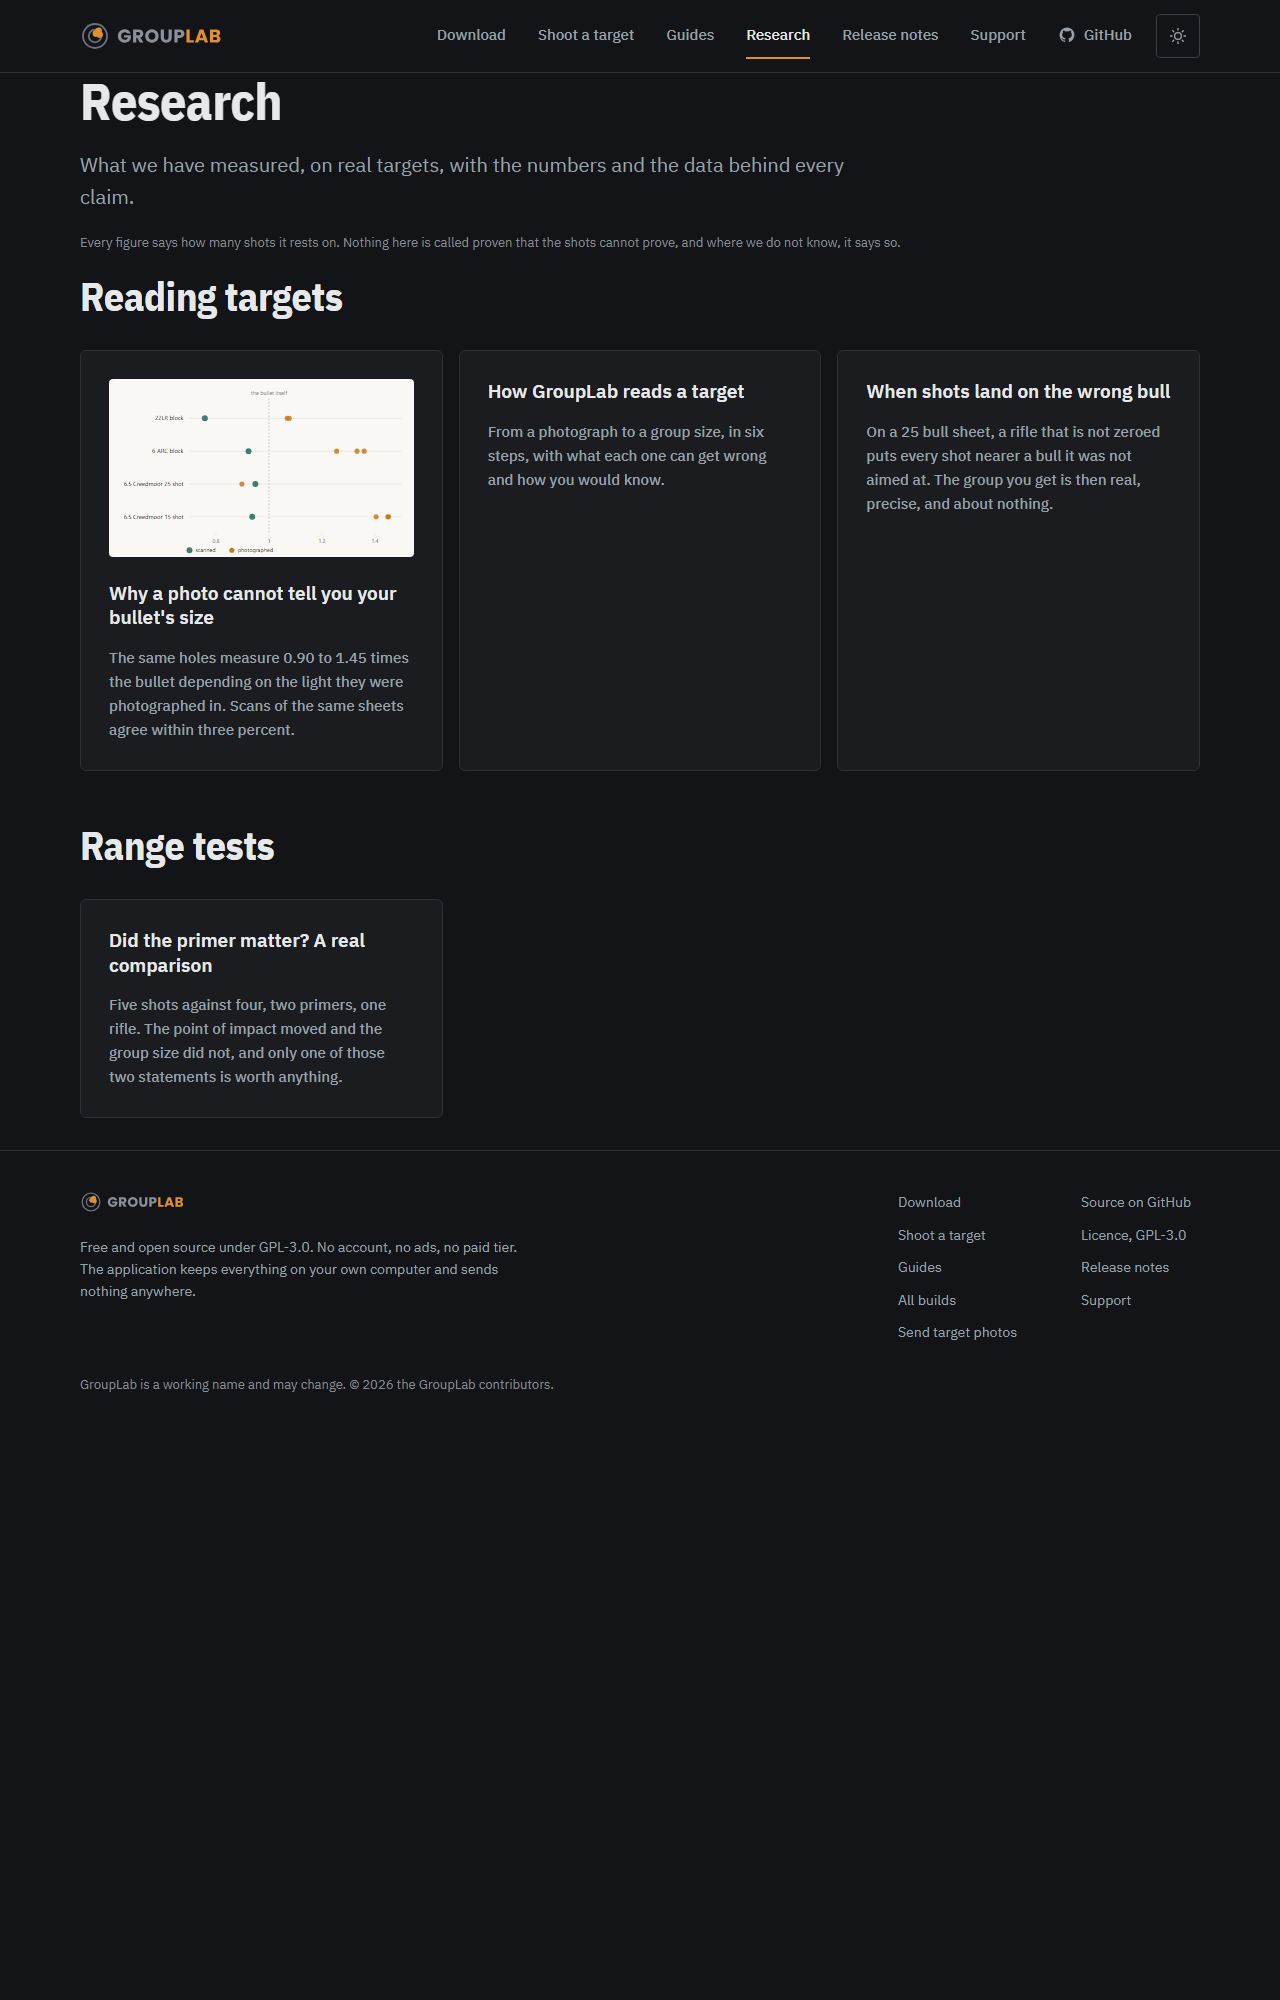
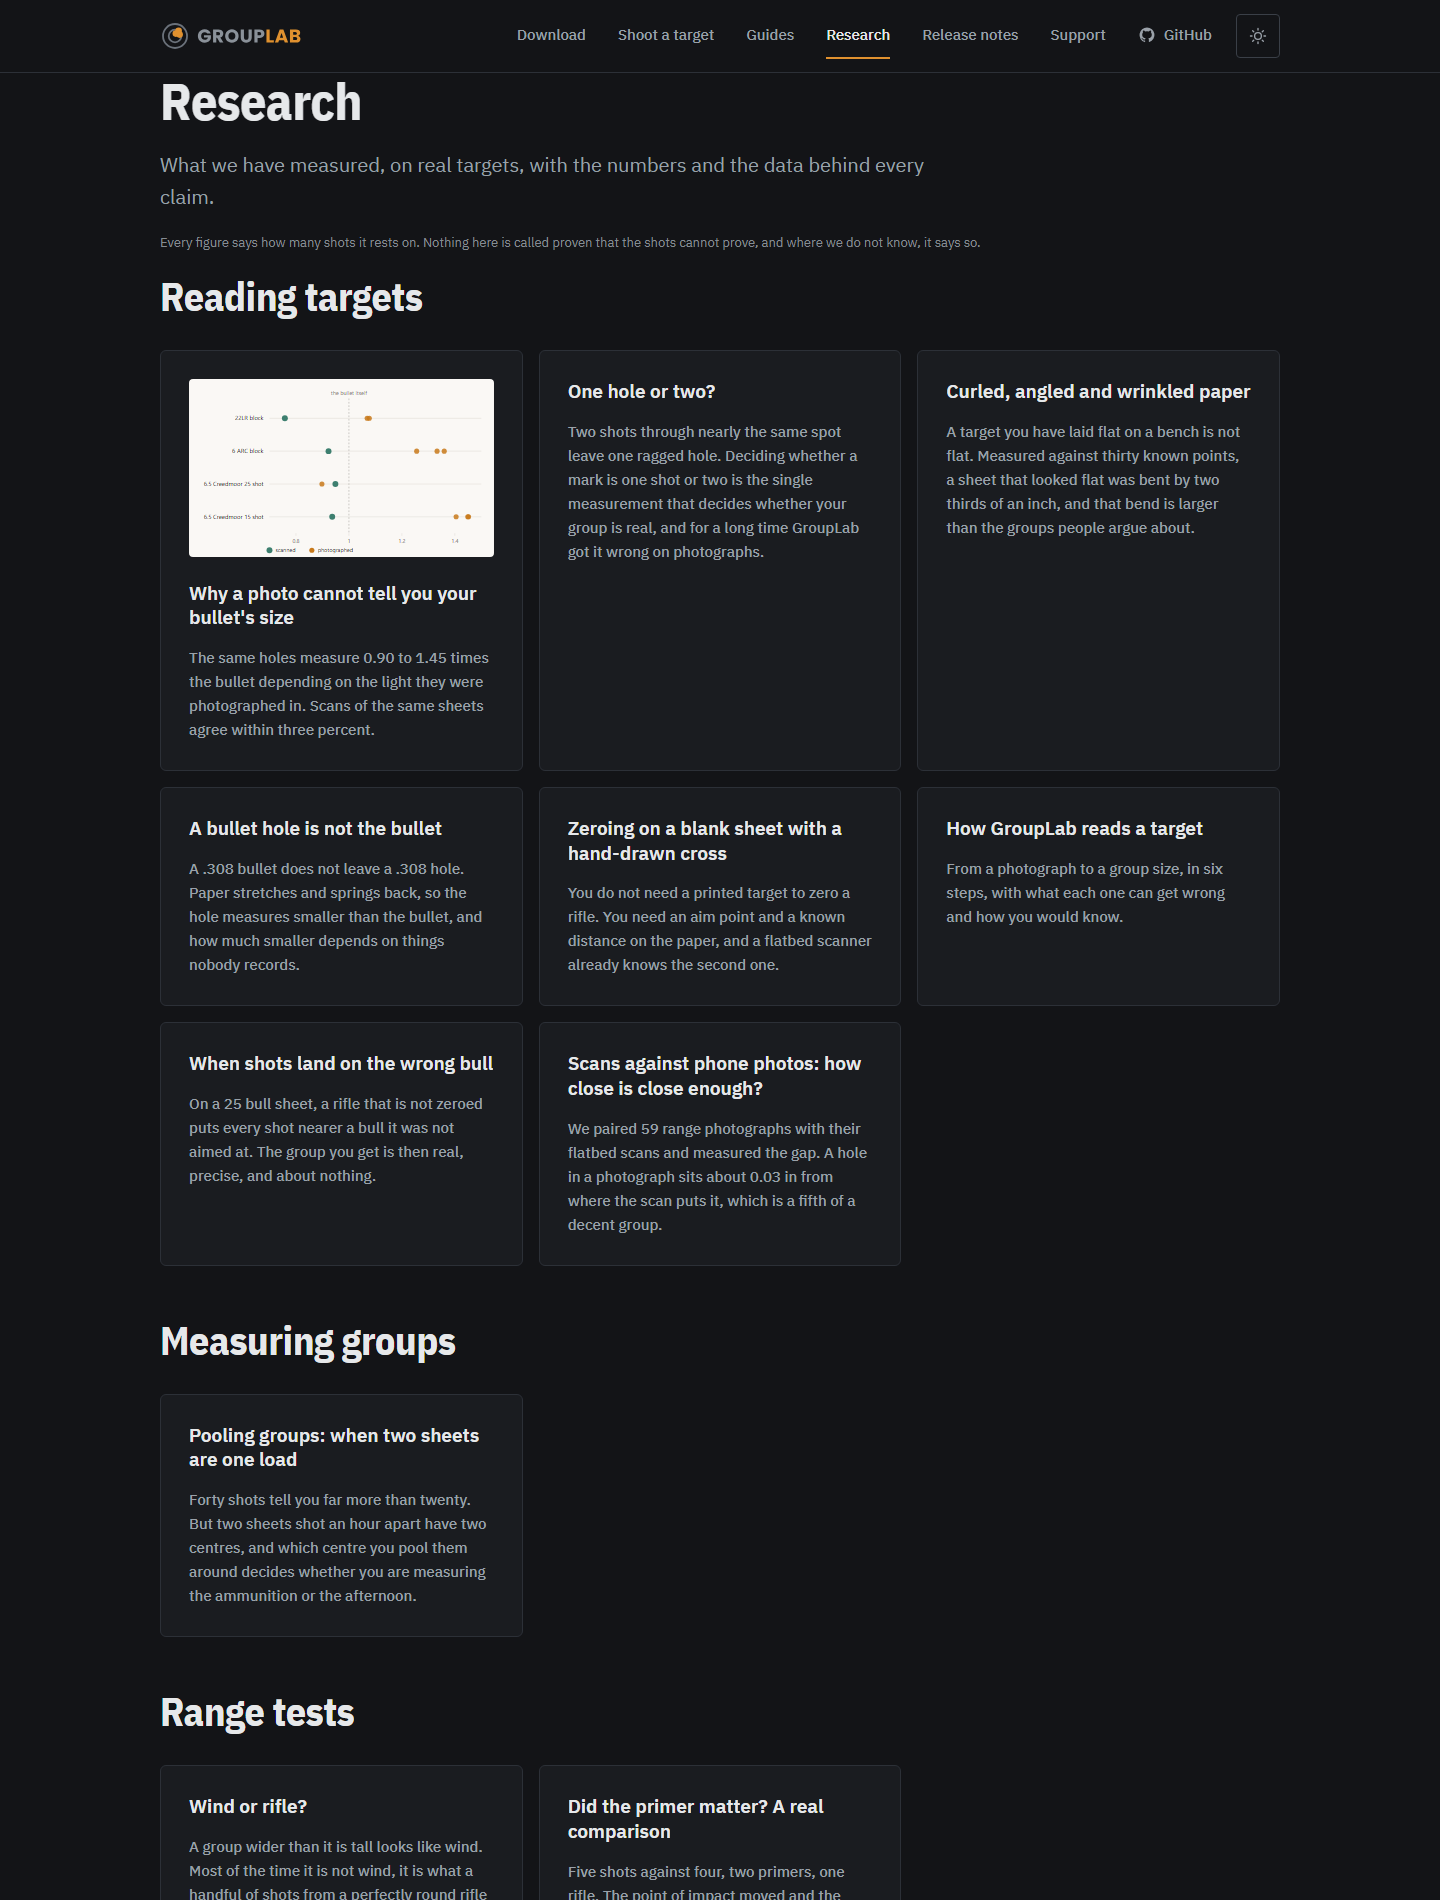
The research section goes live, and the notes carry nightlies 77 and 78
Alan sent "publish research batch 1" and, asked whether that meant batch 1's
four articles or all eighteen now written, answered all eighteen. So every
article marked published is on the research index: batches 1, 2 and 3. The
twelve planning drafts stay drafts, rendered but unlinked and carrying their
draft notice, which is what the section was built to do with them.

RELEASE-NOTES.md is brought to nightly 78 first, per CLAUDE.md's publish
step 0, so the releases page does not go up already behind. Both carry
nothing a person would notice and say so.

diff --git a/docs/notes/inbox/entry-143.md b/docs/notes/inbox/entry-143.md
@@ -1,0 +1,67 @@
+# Entry 143: answers to questions 41 to 46, and the review of research batch 1
+
+Written by the planning session at 04:30 Mountain on 2026-09-23. The review in section 1 is the planning session's, sent to Alan at the same time as this entry; the answers in section 2 are decisions.
+
+## 1. Research batch 1: approved to publish, with four things to fix
+
+Alan has the same review and will send "publish research batch 1" himself. The writing is good and the honesty is right: the primer article in particular says what nine shots can and cannot support, which is the whole point of the section. Fix these, and take them as the standard for later batches.
+
+1. **Every card on the index needs a lead image, or none of them do.** Today one card in four has a thumbnail and the rest are empty, so the row is as tall as the tallest card with three large blanks in it. Give every article a lead figure, and where an article has no natural chart, a plain titled panel in the site's own style is better than a gap.
+2. **The charts are light panels on a dark page.** Every figure is drawn on a near-white surface, which glares against the dark theme and looks pasted on. Have each figure script write both a light and a dark version from the same data, and let the page choose by the reader's theme. This applies to the planning drafts as well: `_style.py` should grow a dark palette and the scripts should call it, rather than each script deciding for itself. If that is more work than it is worth this week, the fallback is a consistent light card behind every figure, so at least they all look deliberate.
+3. **Front matter says `status: published` on articles that are not published.** Two different meanings of the word are in play. Use `state: draft | ready | published`, where `published` is set only when a batch actually goes live, and make the build refuse a page whose state says published when it is not in a published batch.
+4. **The narrow renders are not phone renders**, as `docs/RESEARCH.md` says plainly, and that is an honest note rather than a fault. Leave it. Alan will look at the real pages on his phone after the first publish and report anything that breaks.
+
+Nothing else blocks publication. Publish batch 1 when Alan's message arrives, then offer batches 2 and 3 for review the same way rather than publishing them with it.
+
+## 2. Questions 41 to 46
+
+### Question 41: dragging a shot onto a bull means two different things
+
+**Dragging always moves the shot, and never changes which bull it belongs to.** A mark's position is a measurement and a drag is how it is corrected; nothing else may ride on that gesture. Entry 141 section 5.3 item 3 is amended: assignment happens through the bull picker in the shots list, through the keyboard (select, type the bull number), and through the multiple-selection assignment you have built. Drag onto a bull is removed from the specification. If you later want a pointer gesture for assignment, it must be a distinct one, such as a drag with a modifier key held, and it must leave the hole where it is and say in the toast which bull it moved the shot to.
+
+### Question 42: a corrected shot does not survive a second detection
+
+**Build the matching you propose**, and do not lose a person's correction silently.
+
+- Match each kept corrected shot to the nearest freshly detected shot within **one hole's width**, using the sheet's own size reference from entry 141 section 4 where it exists and the stated calibre where it does not. Where a match exists, the person's position and chosen bull win over the detector's. Where none exists, keep the corrected shot as it is.
+- Never produce two marks for one hole; that remains the rule your current code protects.
+- Also make the button honest: detecting again says, in one line, how many hand corrections it will carry over.
+- Test on scan 5 and scan 6, and with a generated sheet where a correction is moved beyond one hole's width and must therefore survive on its own.
+
+### Question 43: entry 137 names an image safety the desktop does not have
+
+**Both, as their own item, after the current queue.** Not urgent.
+
+1. A cap at **400 megapixels**, phrased as a limit against a hostile or broken file rather than a judgement about scanning, with the number and the measured size in the message. Alan's 600 dpi letter scans are about 32 megapixels, so the cap is twelve times his largest real file.
+2. Move the decode to a background thread with a timeout, because the window freezing on a large scan is a real complaint waiting to happen. Show progress while it runs.
+
+Until then, say in entry 137's record that the pixel cap and decode limit were not built and why, so the specification and the code agree.
+
+### Question 44: the bent-sheet model crashes on one photograph, and improves the wrong points
+
+**Measure first, build nothing.** Run the leave-one-marker-out measurement on the existing surface model across the paired photographs and report it. A model that cannot predict a marker it did not see will not predict a hole, and that decides whether the thin-plate spline in entry 130 section 6b item 2 is worth writing at all. Do not write the spline until that measurement is in.
+
+The crash: spend up to an hour finding it, because an `IndexOutOfRangeException` in registration is worth understanding even in an unreachable model. If it is not obvious in that time, leave it with a test that records the crashing photograph and a note, rather than a speculative fix.
+
+### Question 45: scan 6 reads 9 holes tonight where entry 130 recorded 10
+
+**This is the first thing to do, before any new feature.** A real shot that the software used to find and now does not is the most serious kind of regression this project can have, and shot 6 is the one shot on that sheet that proves a group can contain something far from everything else.
+
+1. Re-run scan 6 at the commit before entry 141 section 4 landed, and at the commit after, and report both counts.
+2. If section 4 cost the hole, fix it so the sheet's own size reference does not drop a hole that a stated calibre finds, and say in the fix what the mechanism was.
+3. Record the hole counts for all six range scans as a checked expectation somewhere a change like this trips over, without committing the scans: a small file of counts plus each scan's SHA-256, and a test that runs only when the folder is present and is skipped with a clear message when it is not.
+4. You were right to say your earlier check was weaker than your sentence implied. Flag counts are not hole counts, and the correction belongs in the record.
+
+### Question 46: the sheet offset is solved over every bull
+
+**Run the measurement you propose**, both ways on scan 5, and compare each result against the offset Alan's table implies.
+
+- If the wide solve is the better estimate, keep the code and rewrite the paragraph: the restraint is delivered by the matching, which only considers aimed bulls, and the solve is allowed to use the whole printed grid because the grid is geometry, not evidence about where the shooter aimed.
+- If the narrow solve is as good, narrow it and fix the five-shot test.
+- Either way, the test that broke is a case worth keeping: add it with a name that says which reading it is pinning.
+
+Do not leave the code and the comment disagreeing, whichever way it goes.
+
+## 3. Order
+
+Question 45, then the batch 1 fixes in section 1, then questions 46, 42 and 41, then question 44's measurement. Question 43 last. Entry 129, the server work, waits for Alan and does not move.

diff --git a/docs/RELEASE-NOTES.md b/docs/RELEASE-NOTES.md
@@ -10,6 +10,26 @@ GroupLab is unreleased. Everything below is a pre-release, and the version numbe
 
 ---
 
+## 0.2.0-nightly.78
+
+**2026-09-22**, commit `aae67d8`. Nightly.
+
+Nothing in this build changes what you see or do. It carries internal work only.
+
+[Downloads for this build](https://github.com/oRAirwolf/grouplab/releases/tag/v0.2.0-nightly.78)
+
+---
+
+## 0.2.0-nightly.77
+
+**2026-09-22**, commit `ad41ea1`. Nightly.
+
+Nothing in this build changes what you see or do. It carries internal work only.
+
+[Downloads for this build](https://github.com/oRAirwolf/grouplab/releases/tag/v0.2.0-nightly.77)
+
+---
+
 ## 0.2.0-nightly.76
 
 **2026-09-22**, commit `f935ab2`. Nightly.
